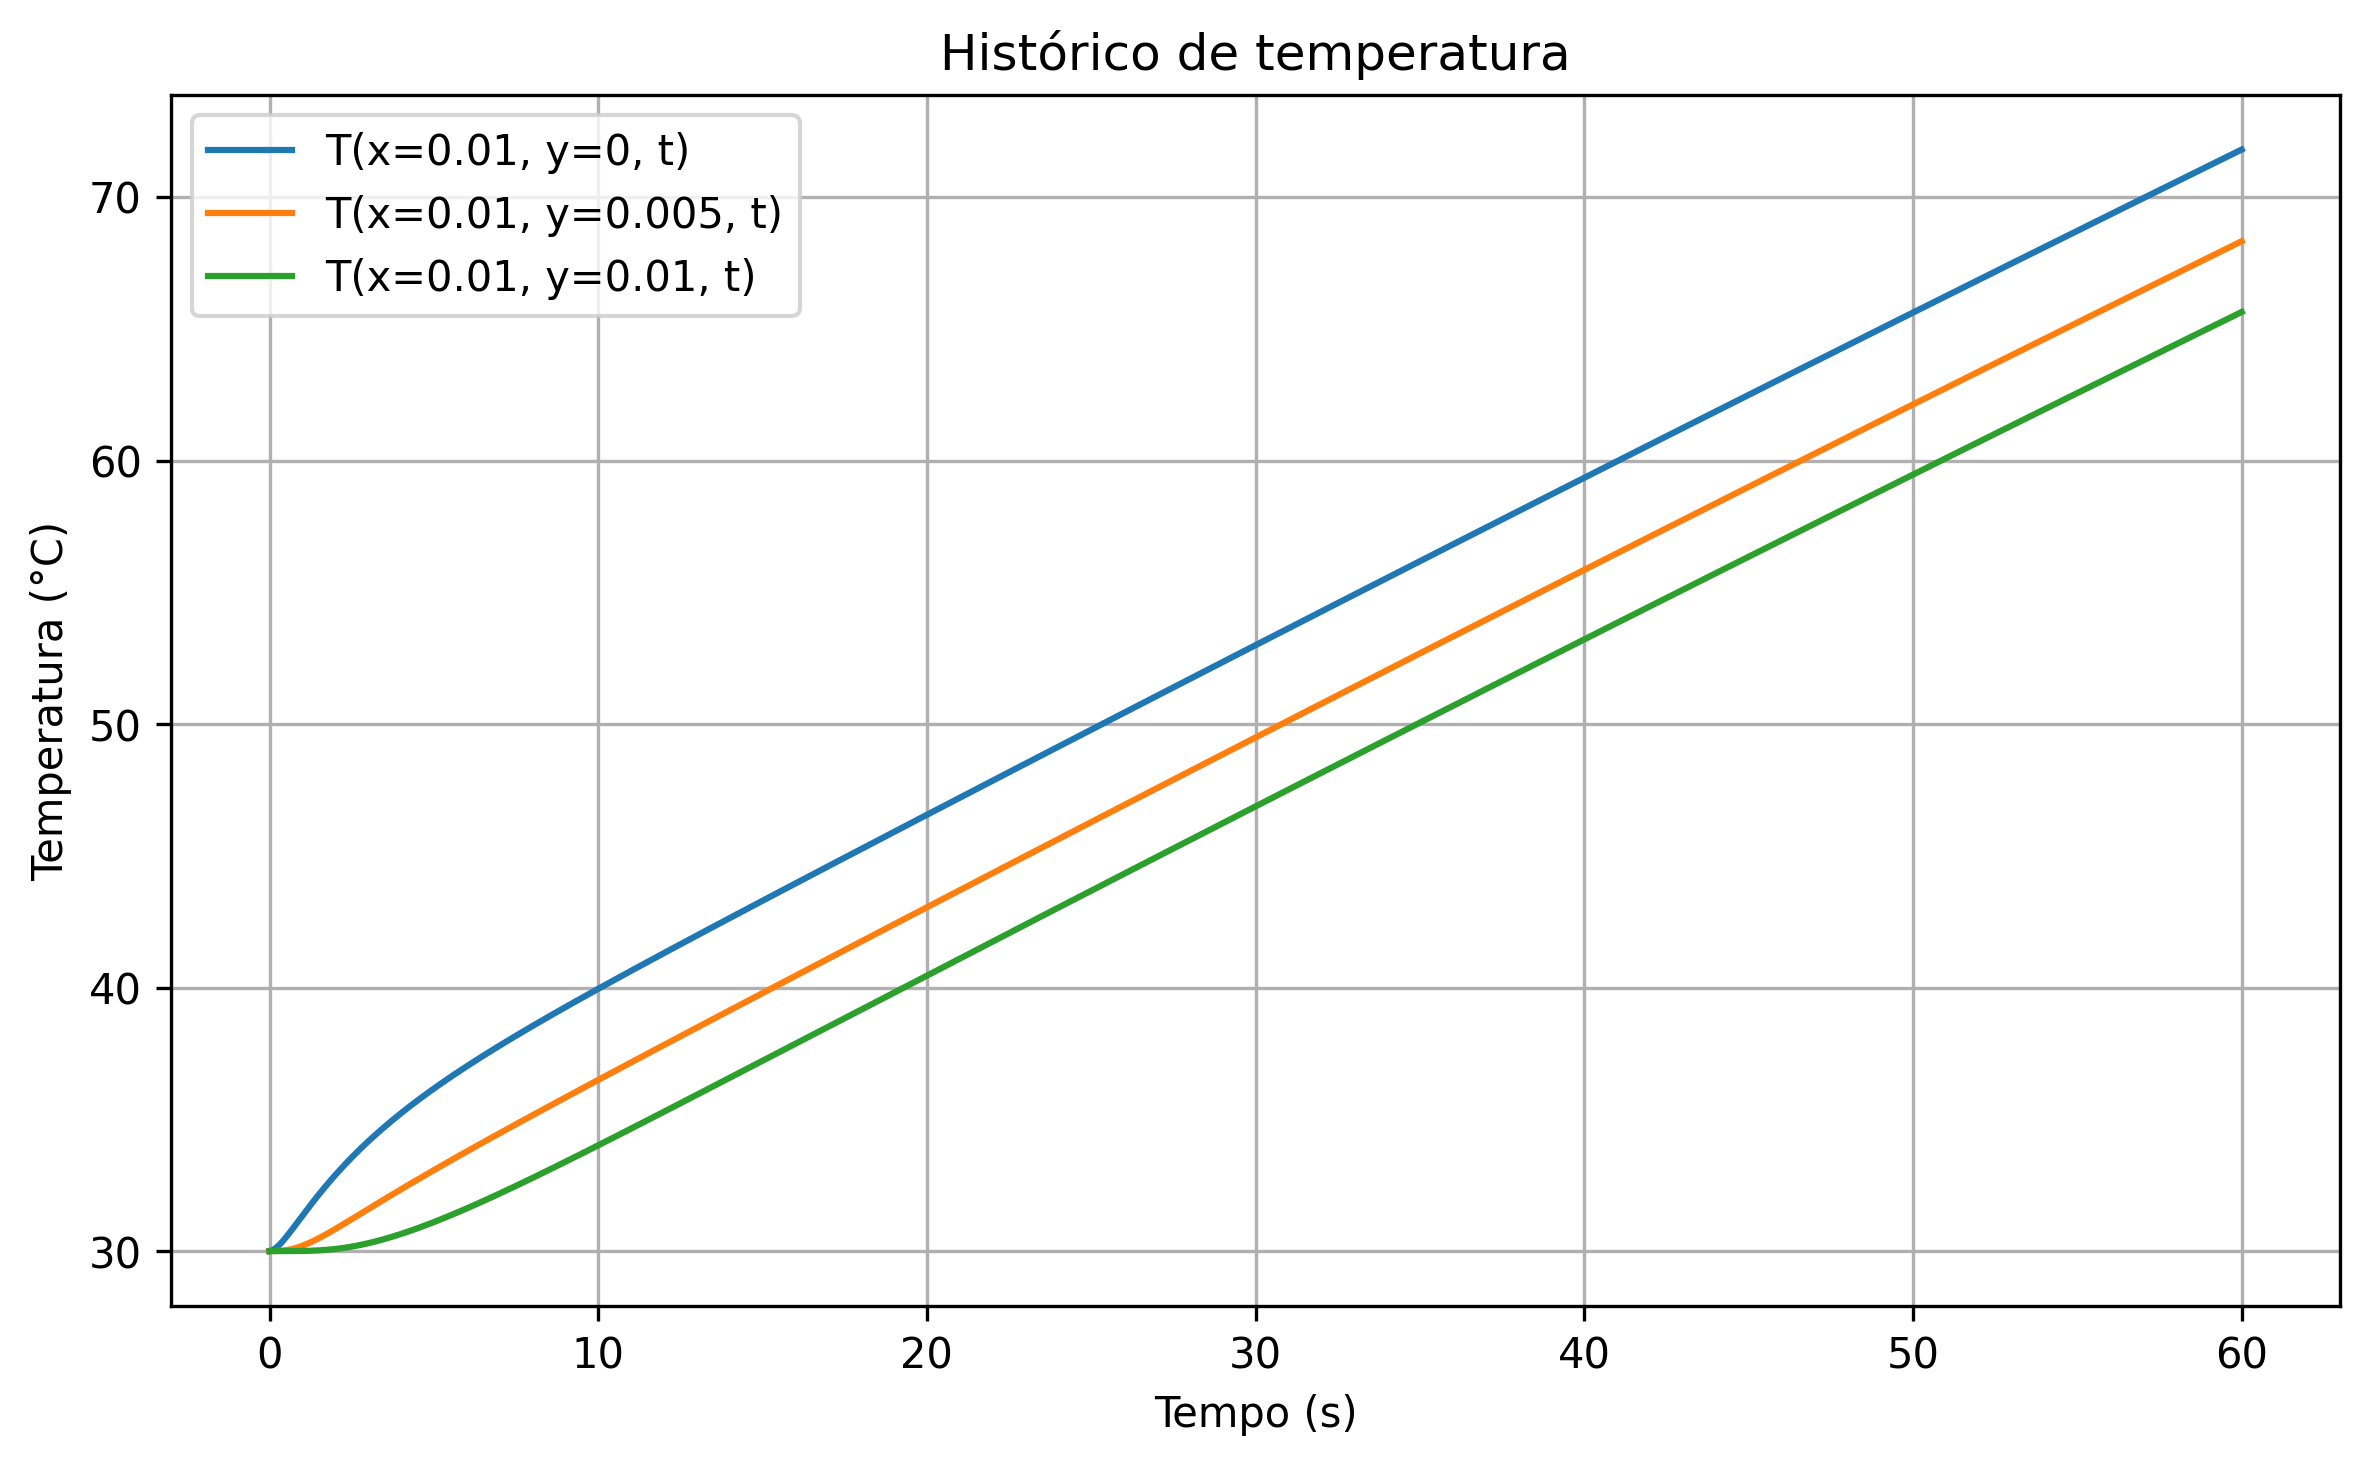
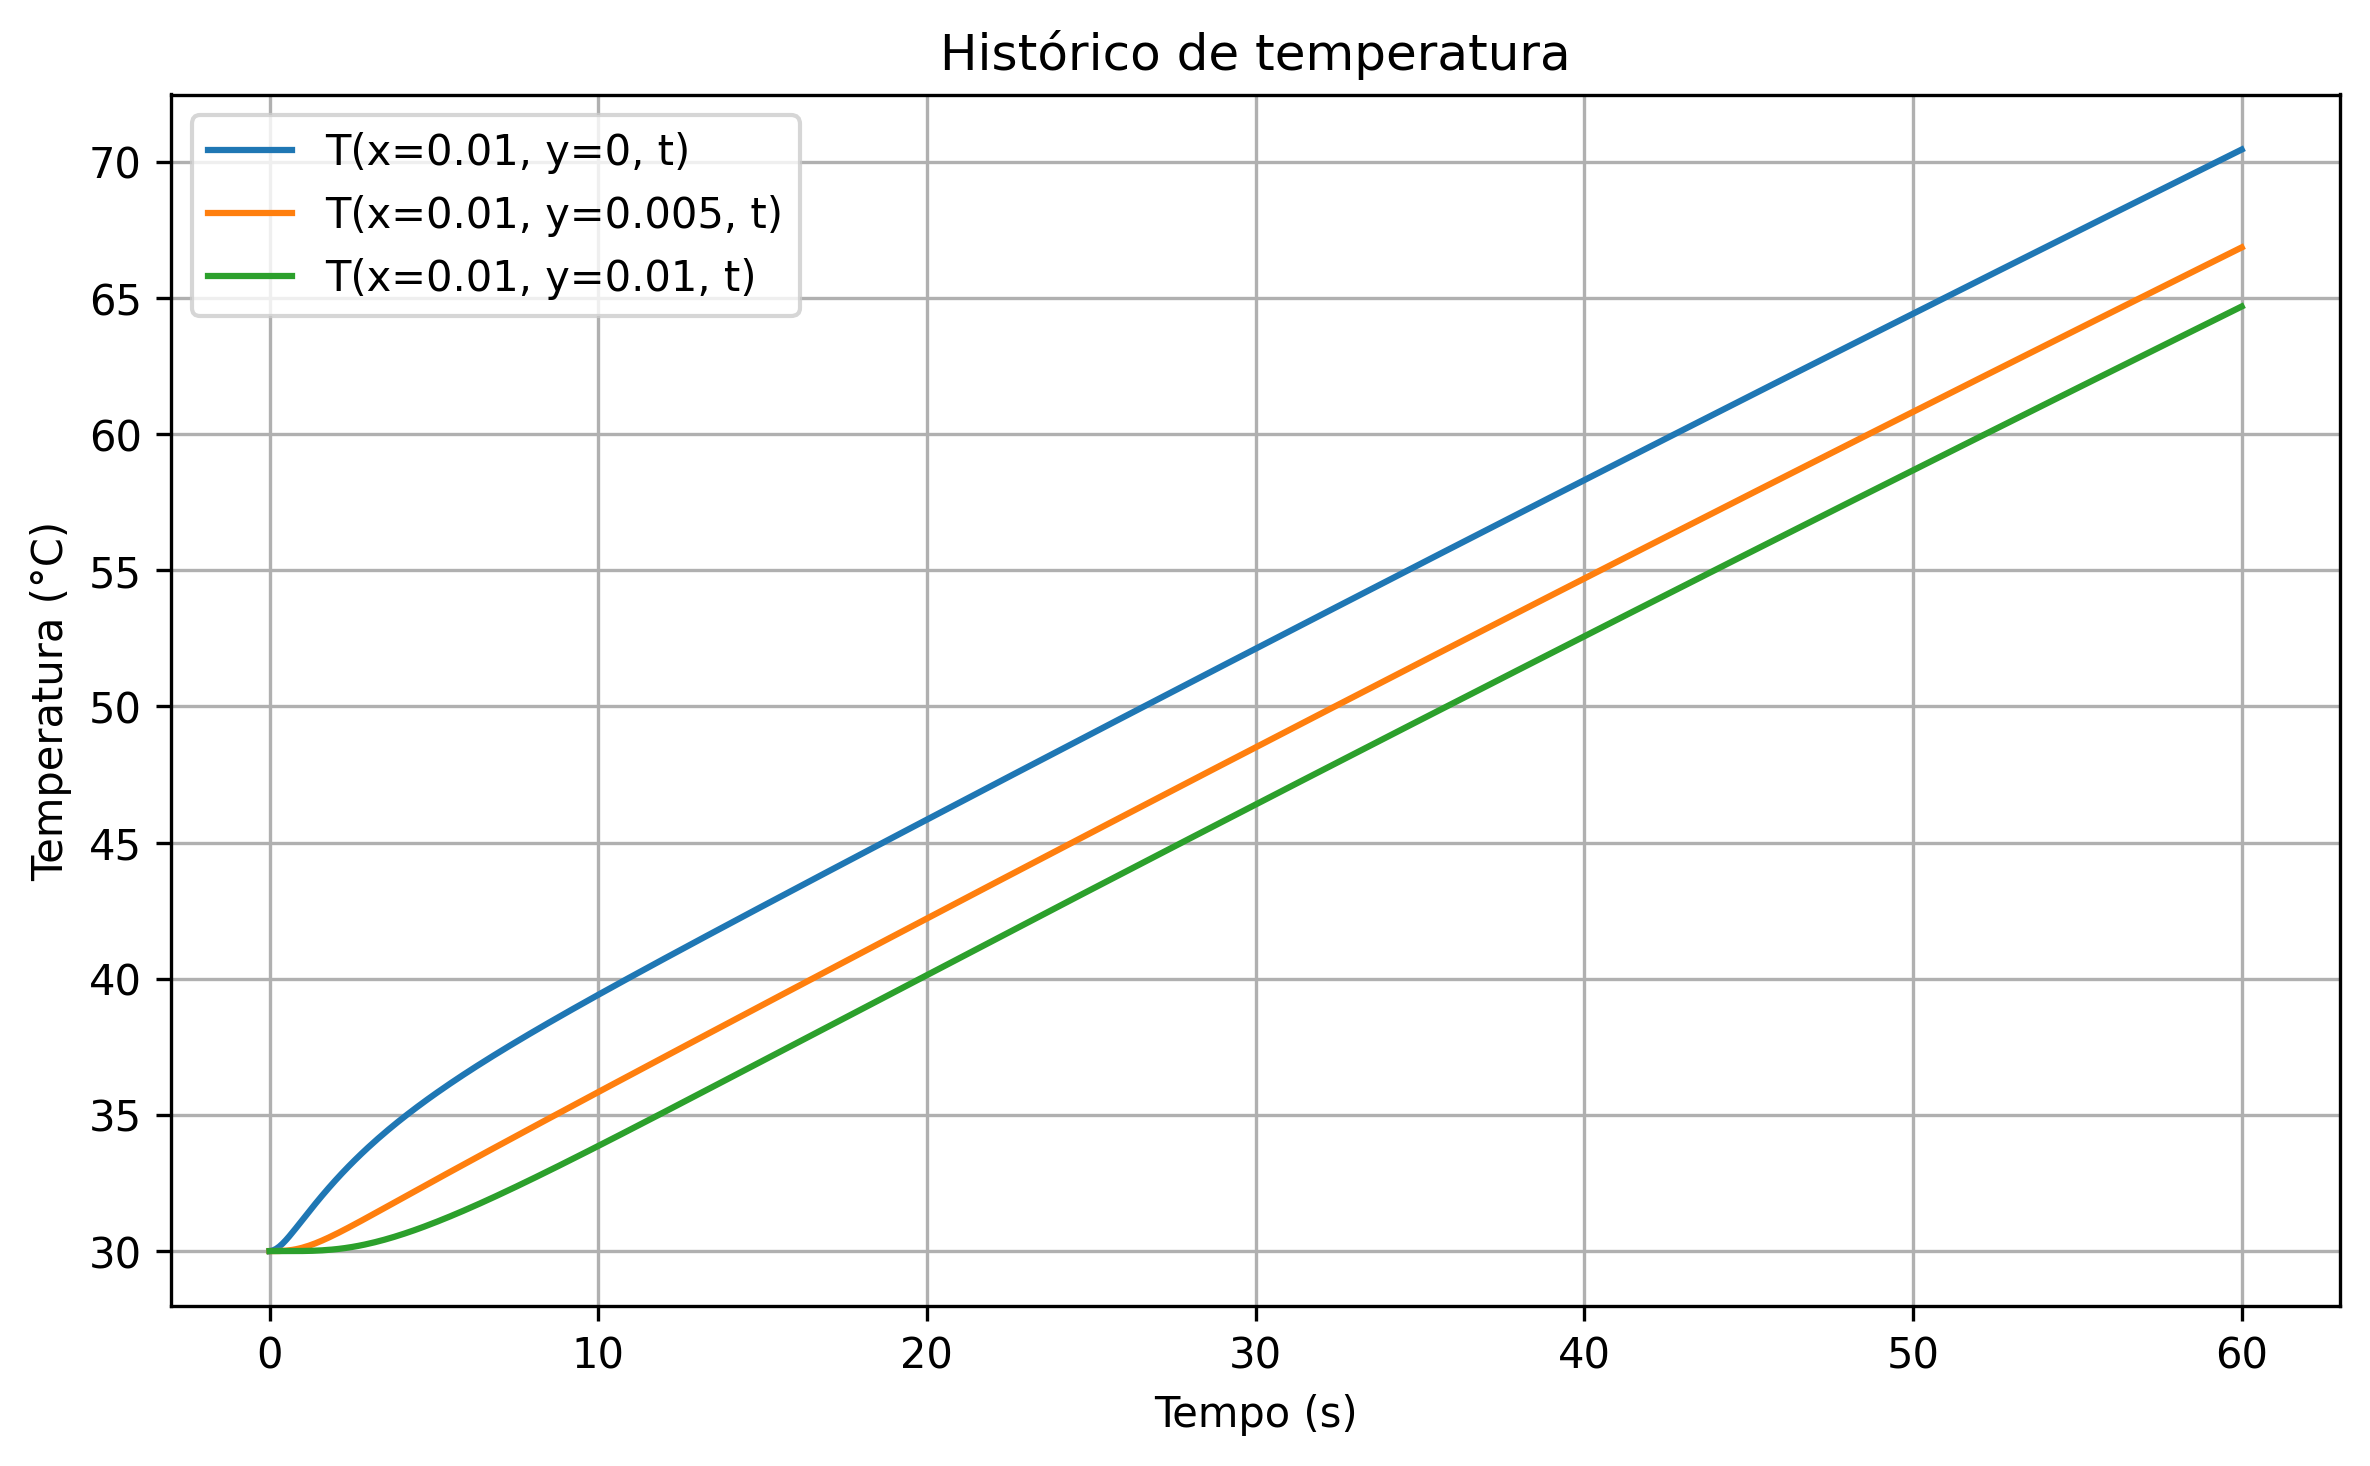
finalizou outro

diff --git a/Problem heat transfer 2D/main.py b/Problem heat transfer 2D/main.py
@@ -36,8 +36,8 @@ rho_cp = k / alpha
 # 2) MALHA NUMÉRICA
 # ============================================================
 # Você pode refinar se quiser.
-Nx = 20
-Ny = 10
+Nx = 41
+Ny = 21
 
 dx = L / Nx
 dy = H / Ny
@@ -129,6 +129,17 @@ time_history = []
 T_bottom_history = []
 T_mid_history = []
 T_top_history = []
+
+# ------------------------------------------------------------
+# Configuração para salvar mapas do campo de temperatura
+# em vários instantes de tempo.
+#
+# Exemplo: se save_field_interval = 12.0, o código salvará
+# mapas em t = 0, 12, 24, 36, 48 e 60 s.
+# ------------------------------------------------------------
+save_field_interval = 12.0
+snapshot_times = np.arange(0.0, t_final + 0.5 * save_field_interval, save_field_interval)
+snapshots = {}
 
 
 # ============================================================
@@ -239,6 +250,17 @@ for n in range(nt + 1):
     T_mid_history.append(T[j_probe_mid, i_probe])
     T_top_history.append(T[j_probe_top, i_probe])
 
+    # --------------------------------------------------------
+    # Se o tempo atual estiver próximo de um dos instantes de
+    # salvamento, guarda uma cópia do campo de temperatura.
+    #
+    # Usamos uma tolerância de dt/2 para evitar problemas de
+    # arredondamento numérico na comparação entre tempos.
+    # --------------------------------------------------------
+    for ts in snapshot_times:
+        if abs(t - ts) <= 0.5 * dt and ts not in snapshots:
+            snapshots[float(ts)] = T.copy()
+
     # Último instante não precisa avançar
     if n == nt:
         break
@@ -250,13 +272,74 @@ for n in range(nt + 1):
     # Converte de volta para matriz 2D
     T = T_new_flat.reshape((Ny, Nx))
 
-# ============================================================
-# 7) SALVAR GRÁFICOS EM UMA PASTA
-# ============================================================
-import os
 
-# cria a pasta "graficos" se ela não existir
+# ============================================================
+# 7) VISUALIZAÇÃO DA MALHA DE VOLUMES FINITOS
+# ============================================================
+# Nesta etapa vamos gerar uma figura apenas da malha numérica.
+# A ideia é enxergar:
+#   1) as linhas que delimitam cada volume de controle
+#   2) os centros dos volumes, onde a temperatura T(i,j) é armazenada
+#   3) as duas regiões da base que recebem fluxo de calor imposto
+#
+# Isso ajuda bastante a entender o método dos volumes finitos,
+# porque a variável não fica armazenada no nó da grade, e sim no
+# CENTRO de cada volume.
+
+# Coordenadas das linhas da malha (fronteiras dos volumes)
+x_faces = np.linspace(0.0, L, Nx + 1)
+y_faces = np.linspace(0.0, H, Ny + 1)
+
+# Cria a pasta "graficos" se ela não existir
 os.makedirs("graficos", exist_ok=True)
+
+# ----------------------------
+# gráfico da malha numérica
+# ----------------------------
+plt.figure(figsize=(10, 5))
+
+# Desenha as linhas verticais da malha
+for xf in x_faces:
+    plt.plot([xf, xf], [0.0, H], color='black', linewidth=0.8)
+
+# Desenha as linhas horizontais da malha
+for yf in y_faces:
+    plt.plot([0.0, L], [yf, yf], color='black', linewidth=0.8)
+
+# Desenha os centros dos volumes de controle
+Xc, Yc = np.meshgrid(x_centers, y_centers)
+plt.scatter(Xc, Yc, s=18, marker='o', label='Centros dos volumes')
+
+# Marca as duas regiões da base com fluxo imposto
+# Região 1: 0.003 <= x <= 0.008, em y = 0
+# Região 2: 0.012 <= x <= 0.017, em y = 0
+plt.plot([0.003, 0.008], [0.0, 0.0], linewidth=5, solid_capstyle='butt',
+         label='Fluxo de calor imposto')
+plt.plot([0.012, 0.017], [0.0, 0.0], linewidth=5, solid_capstyle='butt')
+
+# Destaca os três pontos de acompanhamento de temperatura
+plt.scatter([x_centers[i_probe]], [y_centers[j_probe_bottom]], s=70, marker='s',
+            label='Ponto próximo de (0.01, 0)')
+plt.scatter([x_centers[i_probe]], [y_centers[j_probe_mid]], s=70, marker='^',
+            label='Ponto próximo de (0.01, 0.005)')
+plt.scatter([x_centers[i_probe]], [y_centers[j_probe_top]], s=70, marker='D',
+            label='Ponto próximo de (0.01, 0.01)')
+
+plt.xlabel('x (m)')
+plt.ylabel('y (m)')
+plt.title('Malha de volumes finitos e centros dos elementos')
+plt.xlim(0.0, L)
+plt.ylim(0.0, H)
+plt.gca().set_aspect('equal')
+plt.grid(False)
+plt.legend(loc='upper right', fontsize=8)
+plt.tight_layout()
+plt.savefig("graficos/malha_volumes_finitos.png", dpi=300, bbox_inches="tight")
+plt.close()
+
+# ============================================================
+# 8) SALVAR GRÁFICOS EM UMA PASTA
+# ============================================================
 
 X, Y = np.meshgrid(x_centers, y_centers)
 
@@ -272,6 +355,24 @@ plt.title(f'Distribuição de temperatura em t = {t_final:.1f} s')
 plt.tight_layout()
 plt.savefig("graficos/temperatura_final.png", dpi=300, bbox_inches="tight")
 plt.close()
+
+# ----------------------------
+# gráficos do campo de temperatura em vários instantes
+# ----------------------------
+# Cada snapshot salvo durante a simulação gera uma figura
+# própria. O nome do arquivo inclui o tempo correspondente.
+for ts in sorted(snapshots.keys()):
+    T_snap = snapshots[ts]
+
+    plt.figure(figsize=(8, 4))
+    cp = plt.contourf(X, Y, T_snap, levels=20)
+    plt.colorbar(cp, label='Temperatura (°C)')
+    plt.xlabel('x (m)')
+    plt.ylabel('y (m)')
+    plt.title(f'Distribuição de temperatura em t = {ts:.1f} s')
+    plt.tight_layout()
+    plt.savefig(f"graficos/temperatura_t_{ts:05.1f}s.png", dpi=300, bbox_inches="tight")
+    plt.close()
 
 # ----------------------------
 # gráfico do histórico de temperatura
